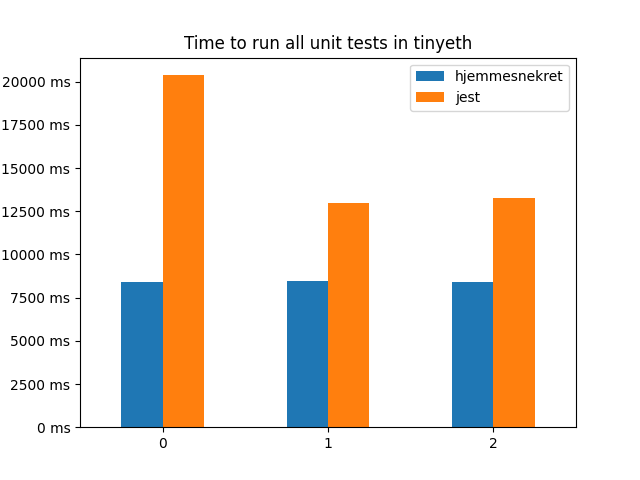
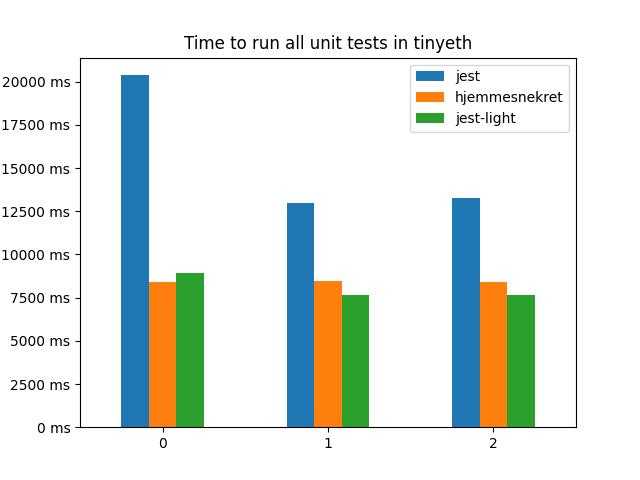
Plot results with jest-light-runner

diff --git a/plot-data/plot.py b/plot-data/plot.py
@@ -9,16 +9,19 @@ def read_results(file):
 
 
 test_runner = ['hjemmesnekret', 'jest']
-data = {'hjemmesnekret': read_results('hjemmesnekret.txt'),
-        'jest':  read_results('jest.txt')}
+data = {
+    'jest':  read_results('jest.txt'),
+    'hjemmesnekret': read_results('hjemmesnekret.txt'),
+    'jest-light':  read_results('jest-light.txt')
+}
 results = pd.DataFrame(data=data)
 
 
 results.plot(kind='bar')
 
 plt.ylabel('Milliseconds to run tests')
-plt.title('Time to run all unit tests in tinyeth')
+plt.title('Time used for running all unit tests in tinyeth')
 plt.gca().yaxis.set_major_formatter(ticker.FormatStrFormatter('%i ms'))
 plt.gca().xaxis.set_tick_params(rotation=0)
-#plt.show()
+# plt.show()
 plt.savefig('plot.png')

diff --git a/readme.md b/readme.md
@@ -1,41 +1,21 @@
 ## Hjemmesnekret
 
-(Simple) proof of concept testing framework to profile other tests frameworks. Same interface as `jest` to make it easy to switch to.
+(Simple) proof of concept testing framework created to profile against other tests frameworks. 
+
+It's not a real test runner, and missing nice features like. Test diffing, and nice error messages. It also does not have a real stacktrace with support for things like js.map.
+
+[jest-light-runner](https://www.npmjs.com/package/jest-light-runner) seems to be the way to go if you want a fast jest-compatible api.
 
 # Speed vs jest
-Here is the time difference for running all tests in [tinyeth](https://github.com/2xic/tinyeth) between hjemmesnekret and jest.
+Here is the time difference for running all tests in [tinyeth](https://github.com/2xic/tinyeth) between jest, hjemmesnekret, and jest-light.
 
-Jest does some cacheing, and that's why the speed decreases after the first run for jest.
+Jest uses cacheing, and that's why the time used decreases a lot after the first run for jest.
 
 ![results](plot-data/plot.png)
 
-# Functionality
-- describe, it, beforeEach, beforeAll
-- expect
-  - toBeTruthy
-  - toHaveLength
-  - toBeInstanceOf
-  - toBe
-  - toBeDefined
-  - toBeUndefined
-  - toBeLessThan
-  - toBeLessThanOrEqual
-  - toBeGreaterThanOrEqual
-  - toBeGreaterThan
-  - toContain
-  - toContainEqual
-  - toEqual
-  - toMatchObject
-  - toBeFalsy
-  - toThrowError
-  - toThrow
-  - rejects and resolves
+# Speed vs other testing frameworks
+I also tried to use [vitest](https://vitest.dev/), but was not able to get it to run on tinyeth (I got sefaults, and did not get a helpful error message). 
 
+Uvu was also fast, but does not have a jest compatible api, so it was not tested with tinyeth.
 
-# TODO
-Some features I still want to add.
-
-- `jest timer`
-- `inline snapshot`
-- Add object differ, and improved error messages
-- Add a real stacktrace with support for js.map
+These were however tested in the `benchmark` folder.
